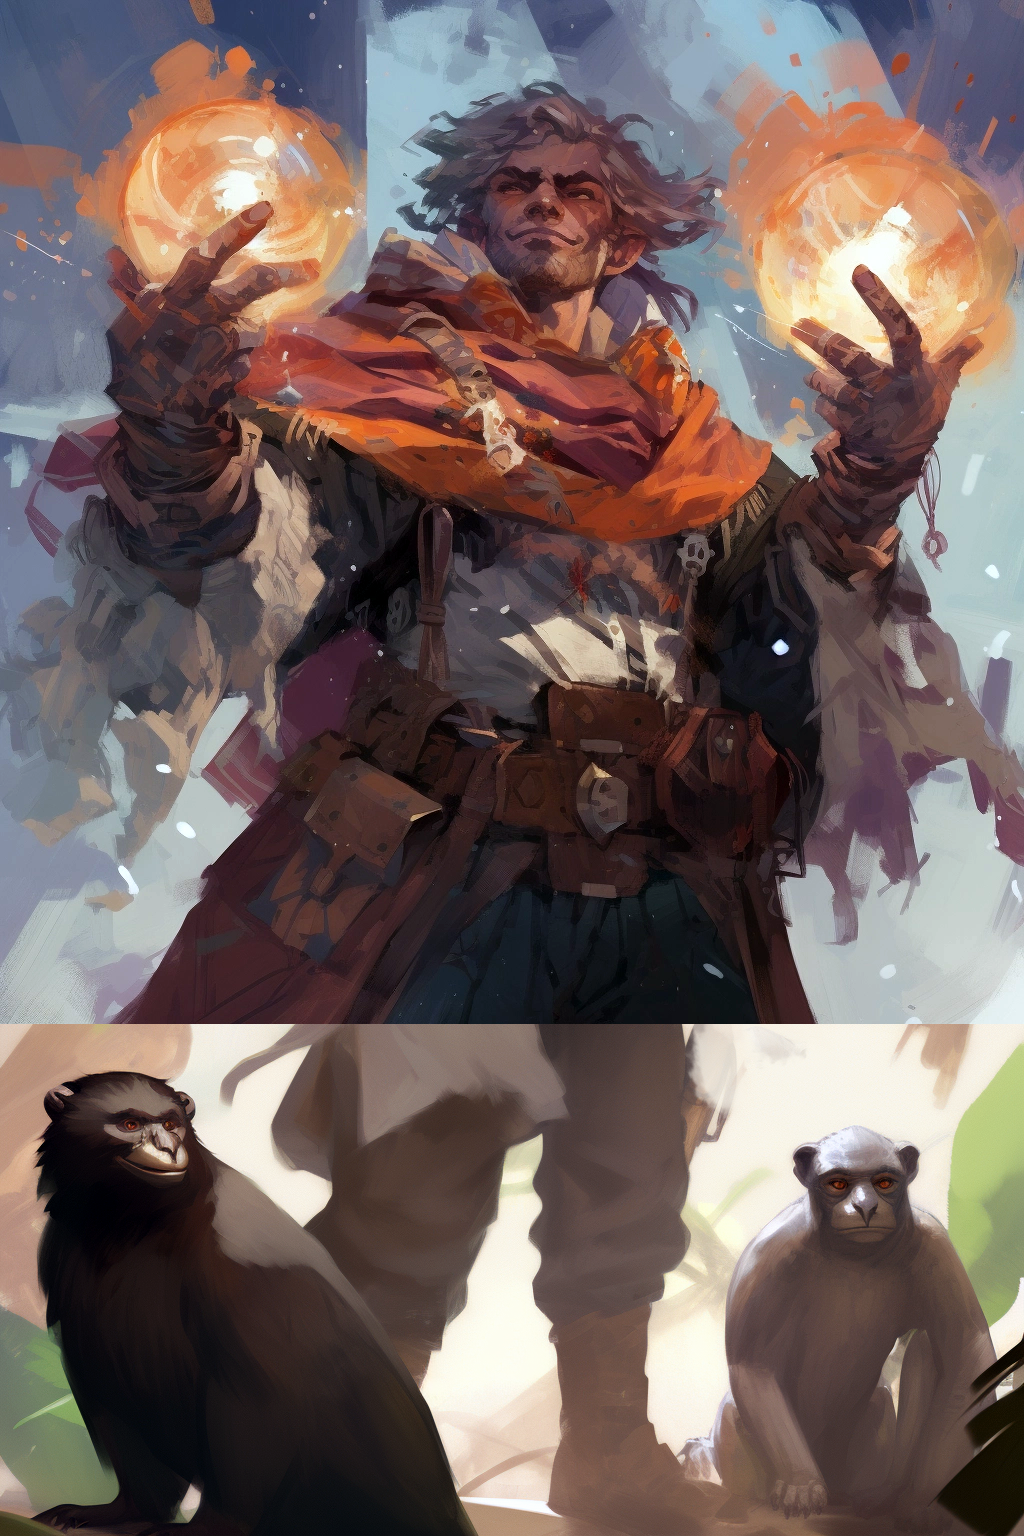
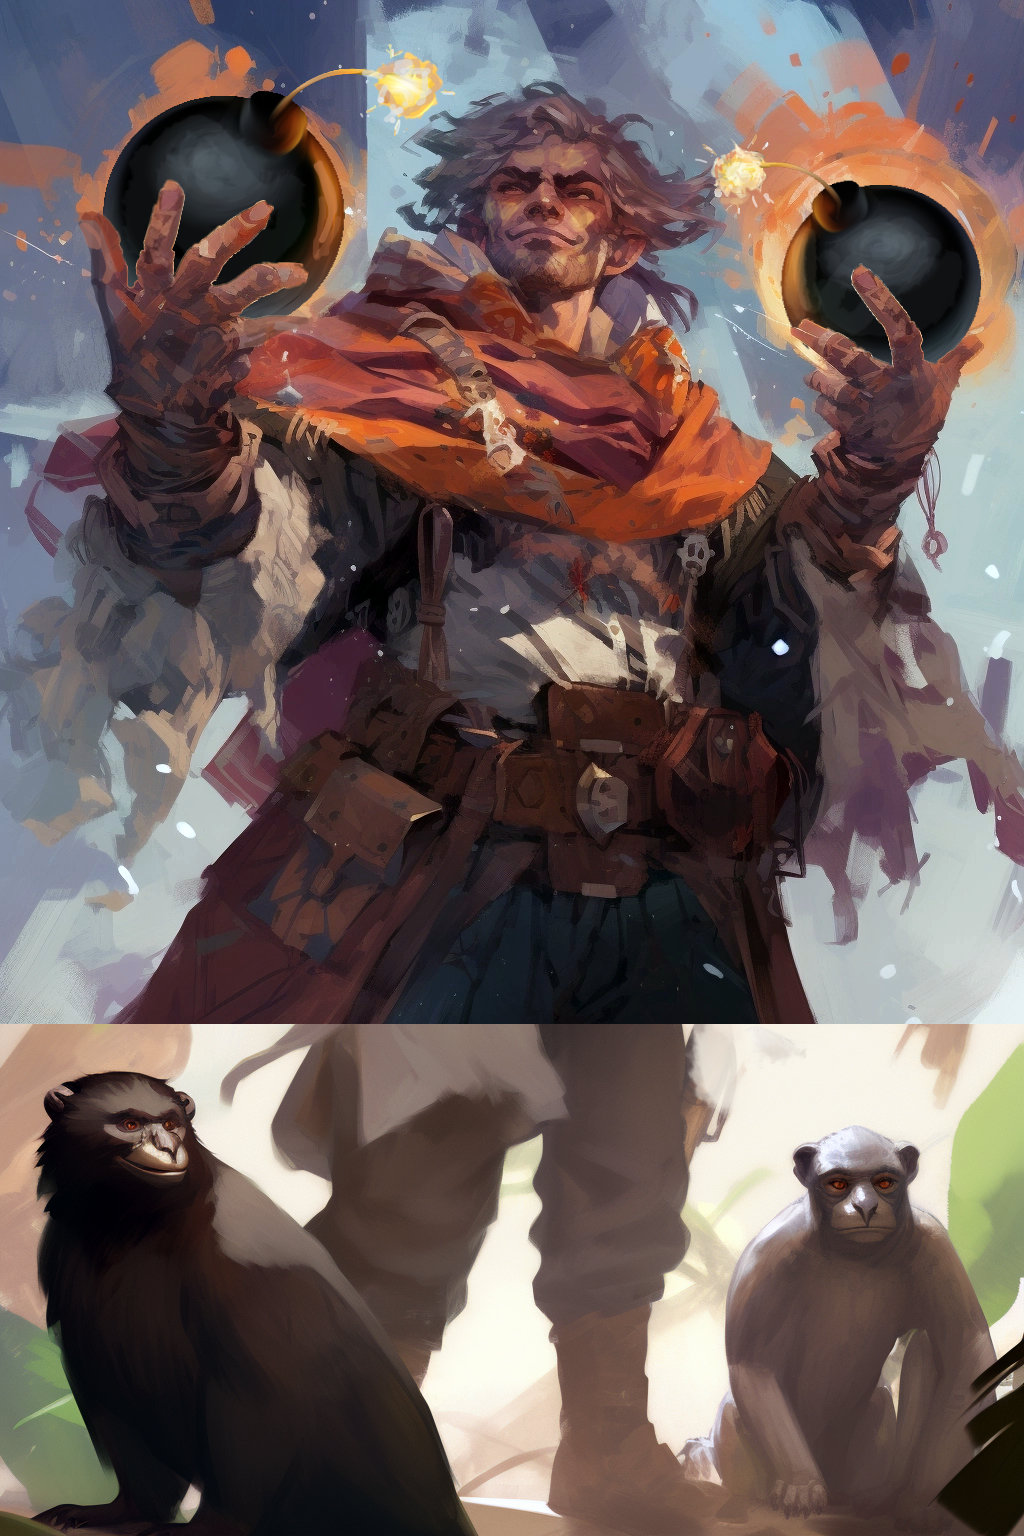
Improve character rendering, work on saboteur

diff --git a/deckhand/extension.html b/deckhand/extension.html
@@ -130,7 +130,10 @@
         <div class="inner">
             <div class="front"> 
                 <div class="frame"></div><div class="frame-bg"></div>
-                <img src="characters/blood.png" class="bg">
+
+                <div class="bg">
+                    <img style="margin-top: -4px;" src="characters/blood.png">
+                </div>
                 
                 <span class="title">Young Pirate</span>
                 <span class="text">
@@ -181,7 +184,10 @@
         <div class="inner">
             <div class="front"> 
                 <div class="frame"></div><div class="frame-bg"></div>
-                <img src="characters/markswoman.png" class="bg">
+
+                <div class="bg">
+                    <img style="margin-top: -5px;" src="characters/markswoman.png">
+                </div>  
                 
                 <span class="title">The Duchess</span>
                 <span class="text">
@@ -192,7 +198,7 @@
                         </div>
                         <div class="actions">
                             <span class="left act"><b>Pay 1 <img class="rule-icon coin" src="icons/coins.svg" /></b></span>
-                            <span class="right"><b>+1 Buy <img class="rule-icon" src="icons/target.svg" /></b></span>
+                            <span class="right"><b>+1 <img class="rule-icon" src="icons/target.svg" /></b> Buy</span>
                         </div>
                         <div class="actions">
                             <span class="left"><b>Play 1 <img class="rule-icon" src="icons/target.svg" /></b></span>
@@ -234,8 +240,11 @@
         <div class="inner">
             <div class="front"> 
                 <div class="frame"></div><div class="frame-bg"></div>
-                <img src="characters/engineer.png" class="bg">
-                
+
+                <div class="bg">
+                    <img style="margin-top: -3px;" src="characters/engineer.png">
+                </div>  
+          
                 <span class="title">The Engineer</span>
                 <span class="text">
                     <span class="innerText">
@@ -285,7 +294,10 @@
         <div class="inner">
             <div class="front"> 
                 <div class="frame"></div><div class="frame-bg"></div>
-                <img src="characters/governor.png" class="bg">
+
+                <div class="bg">
+                    <img style="margin-top: 0" src="characters/governor.png">
+                </div>
                 
                 <span class="title">The Governor</span>
                 <span class="text">
@@ -340,7 +352,10 @@
         <div class="inner">
             <div class="front"> 
                 <div class="frame"></div><div class="frame-bg"></div>
-                <img src="characters/cook.png" class="bg">
+
+                <div class="bg">
+                    <img style="margin-top: 0" src="characters/cook.png">
+                </div>
                 
                 <span class="title">Chief Cook</span>
                 <span class="text">
@@ -363,7 +378,7 @@
                             <span class="right"><b>+1 Action</b></span>
                         </div>
                         <div class="actions">
-                            <span class="left"><b>Empty stash</b></span>
+                            <span class="left" style="width:55%"><b>Empty stash</b></span>
                             <span class="right"><b>+2 Scrap Buy</b></span>
                         </div>
                     </span> 
@@ -393,7 +408,10 @@
         <div class="inner">
             <div class="front"> 
                 <div class="frame"></div><div class="frame-bg"></div>
-                <img src="characters/adventurer.png" class="bg">
+
+                <div class="bg">
+                    <img style="margin-top: 0" src="characters/adventurer.png">
+                </div>
                 
                 <span class="title">The Adventurer</span>
                 <span class="text">
@@ -404,7 +422,7 @@
                         </div>
                         <div class="actions">
                             <span class="left act"><b>Pay 2 <img class="rule-icon coin" src="icons/coins.svg" /></b></span>
-                            <span class="right"><b>+1 Buy <img class="rule-icon" src="icons/tentacle.svg" /></b></span>
+                            <span class="right"><b>+1 <img class="rule-icon" src="icons/tentacle.svg" /> Buy</b></span>
                         </div>
                         <div class="actions">
                             <span class="left"><b>Play 2 <img class="rule-icon" src="icons/tentacle.svg" /></b></span>
@@ -442,7 +460,10 @@
         <div class="inner">
             <div class="front"> 
                 <div class="frame"></div><div class="frame-bg"></div>
-                <img src="characters/architect.png" class="bg">
+
+                <div class="bg">
+                    <img style="margin-top: -9px" src="characters/architect.png">
+                </div>
                 
                 <span class="title">The Architect</span>
                 <span class="text">
@@ -491,7 +512,10 @@
         <div class="inner">
             <div class="front">
                 <div class="frame"></div><div class="frame-bg"></div>
-                <img src="characters/zoologist.png" class="bg">
+
+                <div class="bg">
+                    <img style="margin-top: 0" src="characters/zoologist.png">
+                </div>
                 
                 <span class="title">The Deckhand</span>
                 <span class="text">
@@ -545,7 +569,9 @@
         <div class="inner">
             <div class="front"> 
                 <div class="frame"></div><div class="frame-bg"></div>
-                <img src="characters/archeologist.png" class="bg">
+                <div class="bg">
+                    <img style="margin-top: -12px" src="characters/archeologist.png" >
+                </div>
                 
                 <span class="title">The Archeologist</span>
                 <span class="text">
@@ -553,7 +579,7 @@
                     <span class="innerText">
                         <div class="actions">
                             <span class="left" style="width:25%"><b></b></span>
-                            <span class="right"><b>Flip a supply card face up</b></span>
+                            <span class="right"><b>Flip 1 supply card face up</b></span>
                         </div>
                         <div class="actions">
                             <span class="left"><b>Play 1 <img class="rule-icon" src="icons/structure.svg" /> and 1 <img class="rule-icon" src="icons/tentacle.svg" /></b></span>
@@ -600,7 +626,9 @@
         <div class="inner">
             <div class="front"> 
                 <div class="frame"></div><div class="frame-bg"></div>
-                <img src="characters/count.png" class="bg">
+                <div class="bg">
+                    <img style="margin-top: -12px" src="characters/count.png">
+                </div>
                 
                 <span class="title">Crimson Captain</span>
                 <span class="text">
@@ -698,12 +726,18 @@
         <div class="inner">
             <div class="front"> 
                 <div class="frame"></div><div class="frame-bg"></div>
-                <img src="characters/saboteur.png" class="bg">
+                <div class="bg">
+                    <img src="characters/saboteur.png">
+                </div>
                 
                 <span class="title">Saboteur</span>
                 <span class="text">
                     <p style="margin-top:0">Any 2 same-cost, face-up cards are <b>Pairs</b>.</p>
                     <span class="innerText">
+                        <div class="actions">
+                            <span class="left" style="width:1%"><b></b></span>
+                            <span class="right"><b>Target player Unearth a 1-cost card</b></span>
+                        </div>
                         <div class="actions">
                             <span class="left"><b>Play 2 <img class="rule-icon" src="icons/attack.svg" /></b></span>
                             <span class="right"><b>Swap a Pair</b></span>
@@ -749,7 +783,10 @@
             <div class="front"> 
                 <div class="frame"></div><div class="frame-bg"></div>
 
-                <img src="characters/witch.png" class="bg">
+                <div class="bg">
+                    <img src="characters/witch.png">
+                </div>
+
                 
                 <span class="title">Voodoo Witch</span>
                 <span class="text">
@@ -765,7 +802,7 @@
                         </div>
                         <div class="actions">
                             <span class="left"><b>Pay 1 <img class="rule-icon coin" src="icons/coins.svg" /></b></span>
-                            <span class="right"><b>Oracle 3 and put 1 at the bottom of the deck</b></span>
+                            <span class="right"><b>Oracle 3 and place 1 at the bottom of the deck</b></span>
                         </div>
                         <!-- <div class="actions">
                             <span class="left"><b>Shuffle > 5</b></span>

diff --git a/deckhand/extension.css b/deckhand/extension.css
@@ -51,7 +51,7 @@
     margin-bottom: 3.5px;
 }
 .mission .left {
-    width: 56%;
+    width: 58%;
     background: url(ext/actions.png);
     background-size: cover;
     background-position: right;
@@ -109,8 +109,16 @@
 
 .card .bg {
     width: 63.1mm;
-    margin-left: -0.05mm;
     height: 88.1mm;
-    margin-top: 3.1mm;
+    top: 3mm;
+    left: 3mm;
     border-radius: 3mm;
+    z-index: -10;
+    position: absolute;
+    margin:0;
+    overflow: hidden;
+}
+
+.card .bg img {
+    width: 100%;
 }
